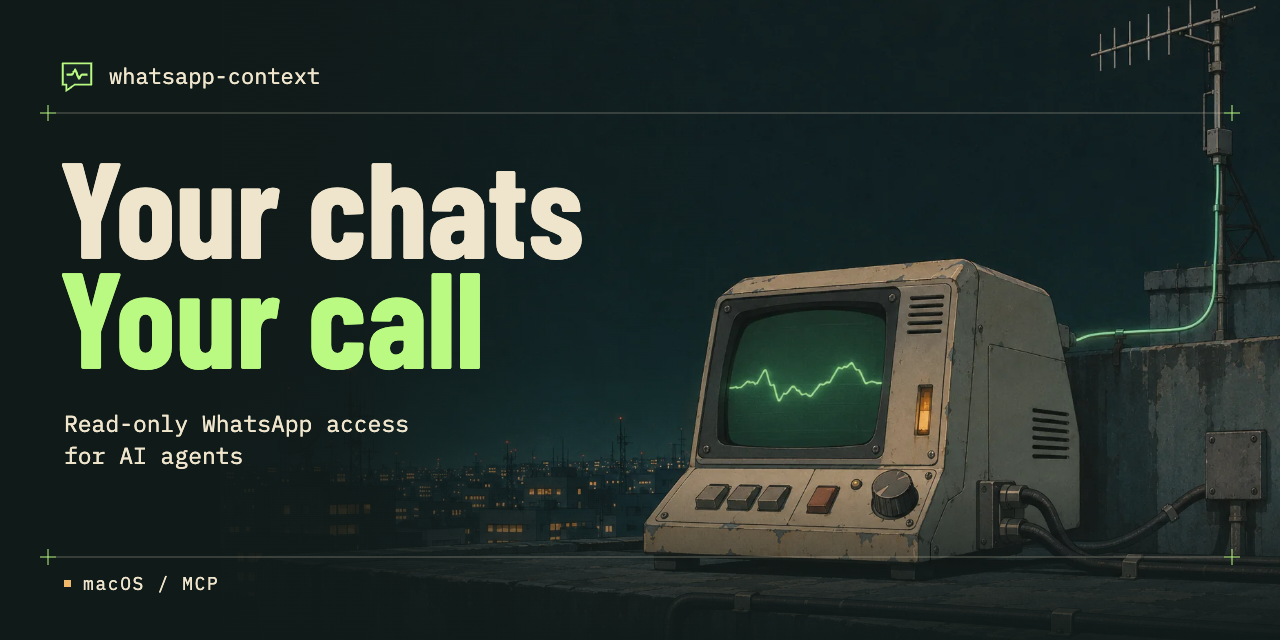
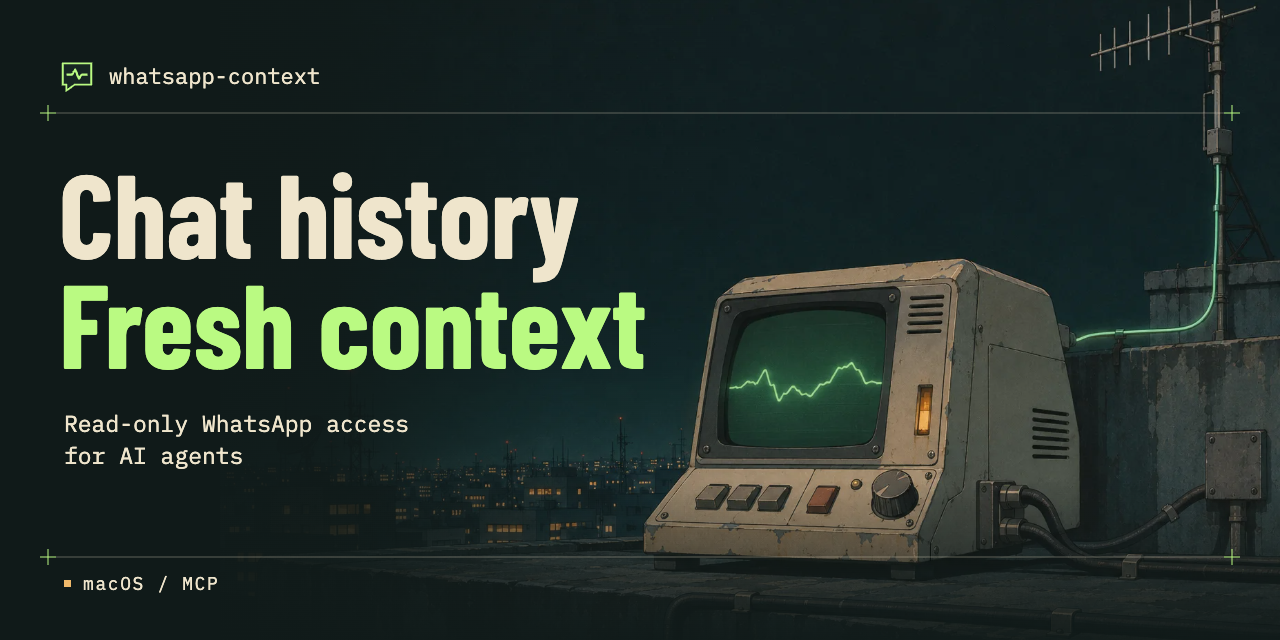
docs: sharpen the landing page headline

Changed region(s): [[0.0312, 0.25, 0.5, 0.5938]]

diff --git a/docs/index.html b/docs/index.html
@@ -125,7 +125,7 @@ button { font: inherit; cursor: pointer; }
 .hero-copy { position: relative; padding: clamp(1.6rem, 5vw, 4.5rem); }
 .hero-copy .kicker { color: var(--signal); margin-bottom: 1.1rem; }
 .hero h1 {
-  font: 700 clamp(5.25rem, 10vw, 9.5rem)/.79 var(--display);
+  font: 700 clamp(5.25rem, 9vw, 7.5rem)/.85 var(--display);
   letter-spacing: -.018em;
   text-transform: uppercase;
 }
@@ -271,7 +271,7 @@ button { font: inherit; cursor: pointer; }
   .brand img { width: 24px; height: 24px; }
   .hero { display: flex; flex-direction: column-reverse; align-items: stretch; min-height: 0; }
   .hero-copy { padding: 1.45rem 1.2rem .6rem; }
-  .hero h1 { font-size: clamp(3.5rem, 13.5vw, 6.5rem); }
+  .hero h1 { font-size: clamp(2.3rem, 11vw, 6.5rem); }
   .hero-description { margin-top: 1.05rem; }
   .hero-copy .button { margin-top: 1.05rem; }
   .hero-art { position: relative; inset: auto; z-index: -1; aspect-ratio: 1.75; }
@@ -313,7 +313,7 @@ button { font: inherit; cursor: pointer; }
         <span class="frame-corner corner-end" aria-hidden="true"></span>
         <div class="hero-copy">
           <p class="kicker"><span class="signal-dot" aria-hidden="true"></span><span data-es="Código abierto · MIT">Open source · MIT</span></p>
-          <h1 id="headline"><span data-es="Tus chats">Your chats</span> <span class="accent" data-es="Tú decides">Your call</span></h1>
+          <h1 id="headline"><span data-es="Tus chats">Chat history</span> <span class="accent" data-es="Nuevo contexto">Fresh context</span></h1>
           <p class="hero-description" data-es="Busca mensajes y resume chats de WhatsApp con tu agente de IA. Acceso de solo lectura desde tu Mac.">Find messages and summarise WhatsApp chats with your AI agent. Read-only access on your Mac.</p>
           <a class="button" href="#install"><span data-es="Instalar en macOS">Install on macOS</span> <span aria-hidden="true">↓</span></a>
         </div>
